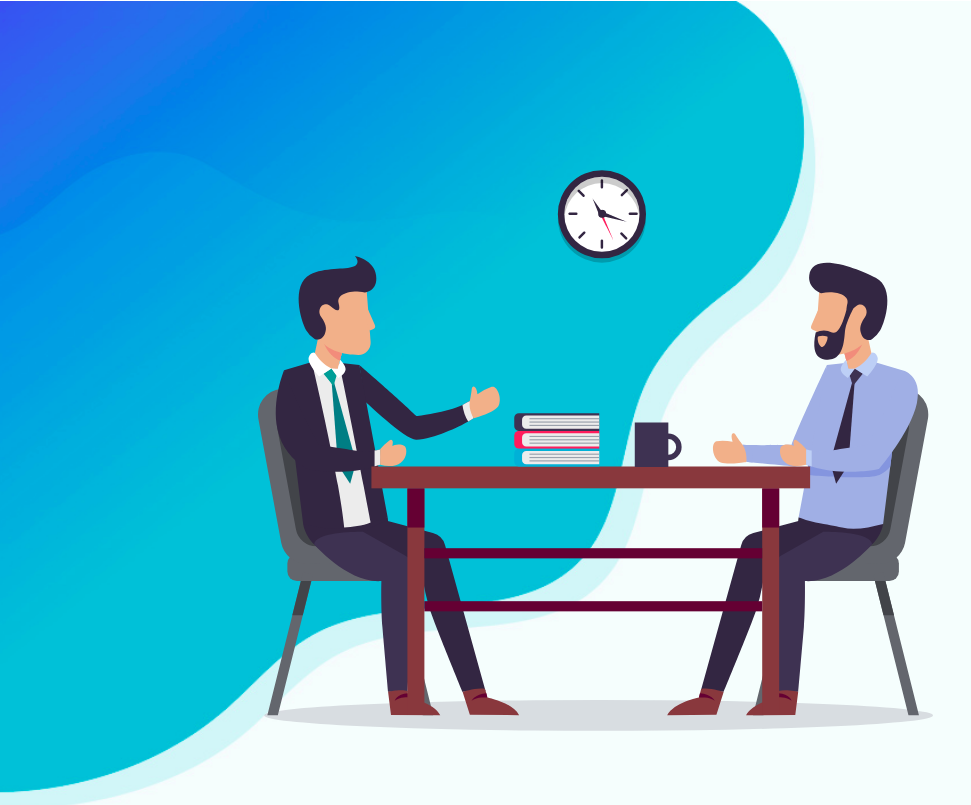
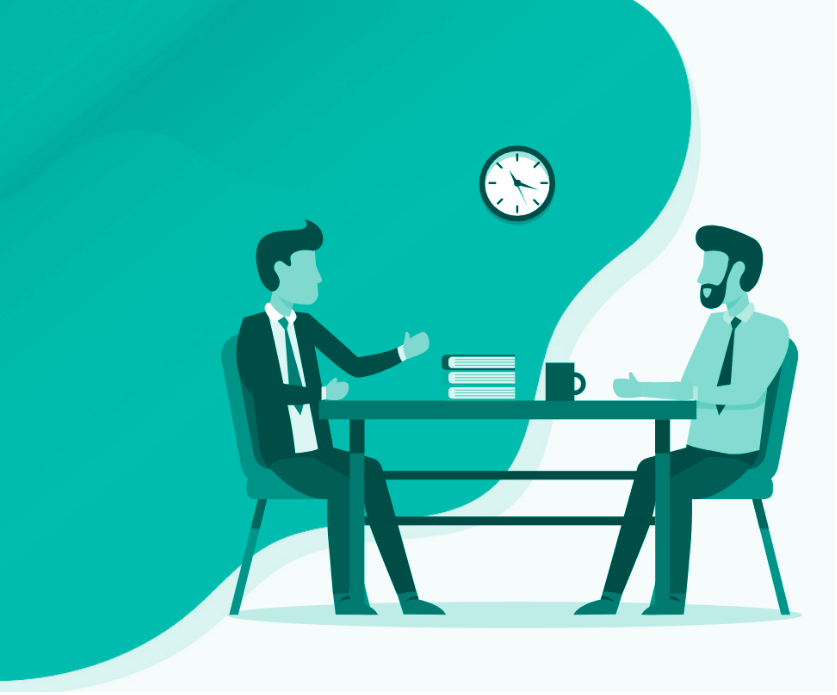
update images

diff --git a/src/views/SessionsPage/SessionDetails.js b/src/views/SessionsPage/SessionDetails.js
@@ -12,10 +12,7 @@ import Card from "components/Card/Card.js";
 import CardBody from "components/Card/CardBody.js";
 import CardHeader from "components/Card/CardHeader";
 import { cardTitle } from "assets/jss/material-kit-react.js";
-
-
-
-import session from "assets/img/session2.png"
+import session from "assets/img/session.svg"
 import session2 from "assets/img/startup-about-2.jpg"
 
 

diff --git a/src/views/StartUpPage/Sections/About.js b/src/views/StartUpPage/Sections/About.js
@@ -96,8 +96,6 @@ export default function About() {
               </Fade>
             </GridItem>
           </GridContainer> 
-        <div>
-      </div>
     </div>
   );
 }
